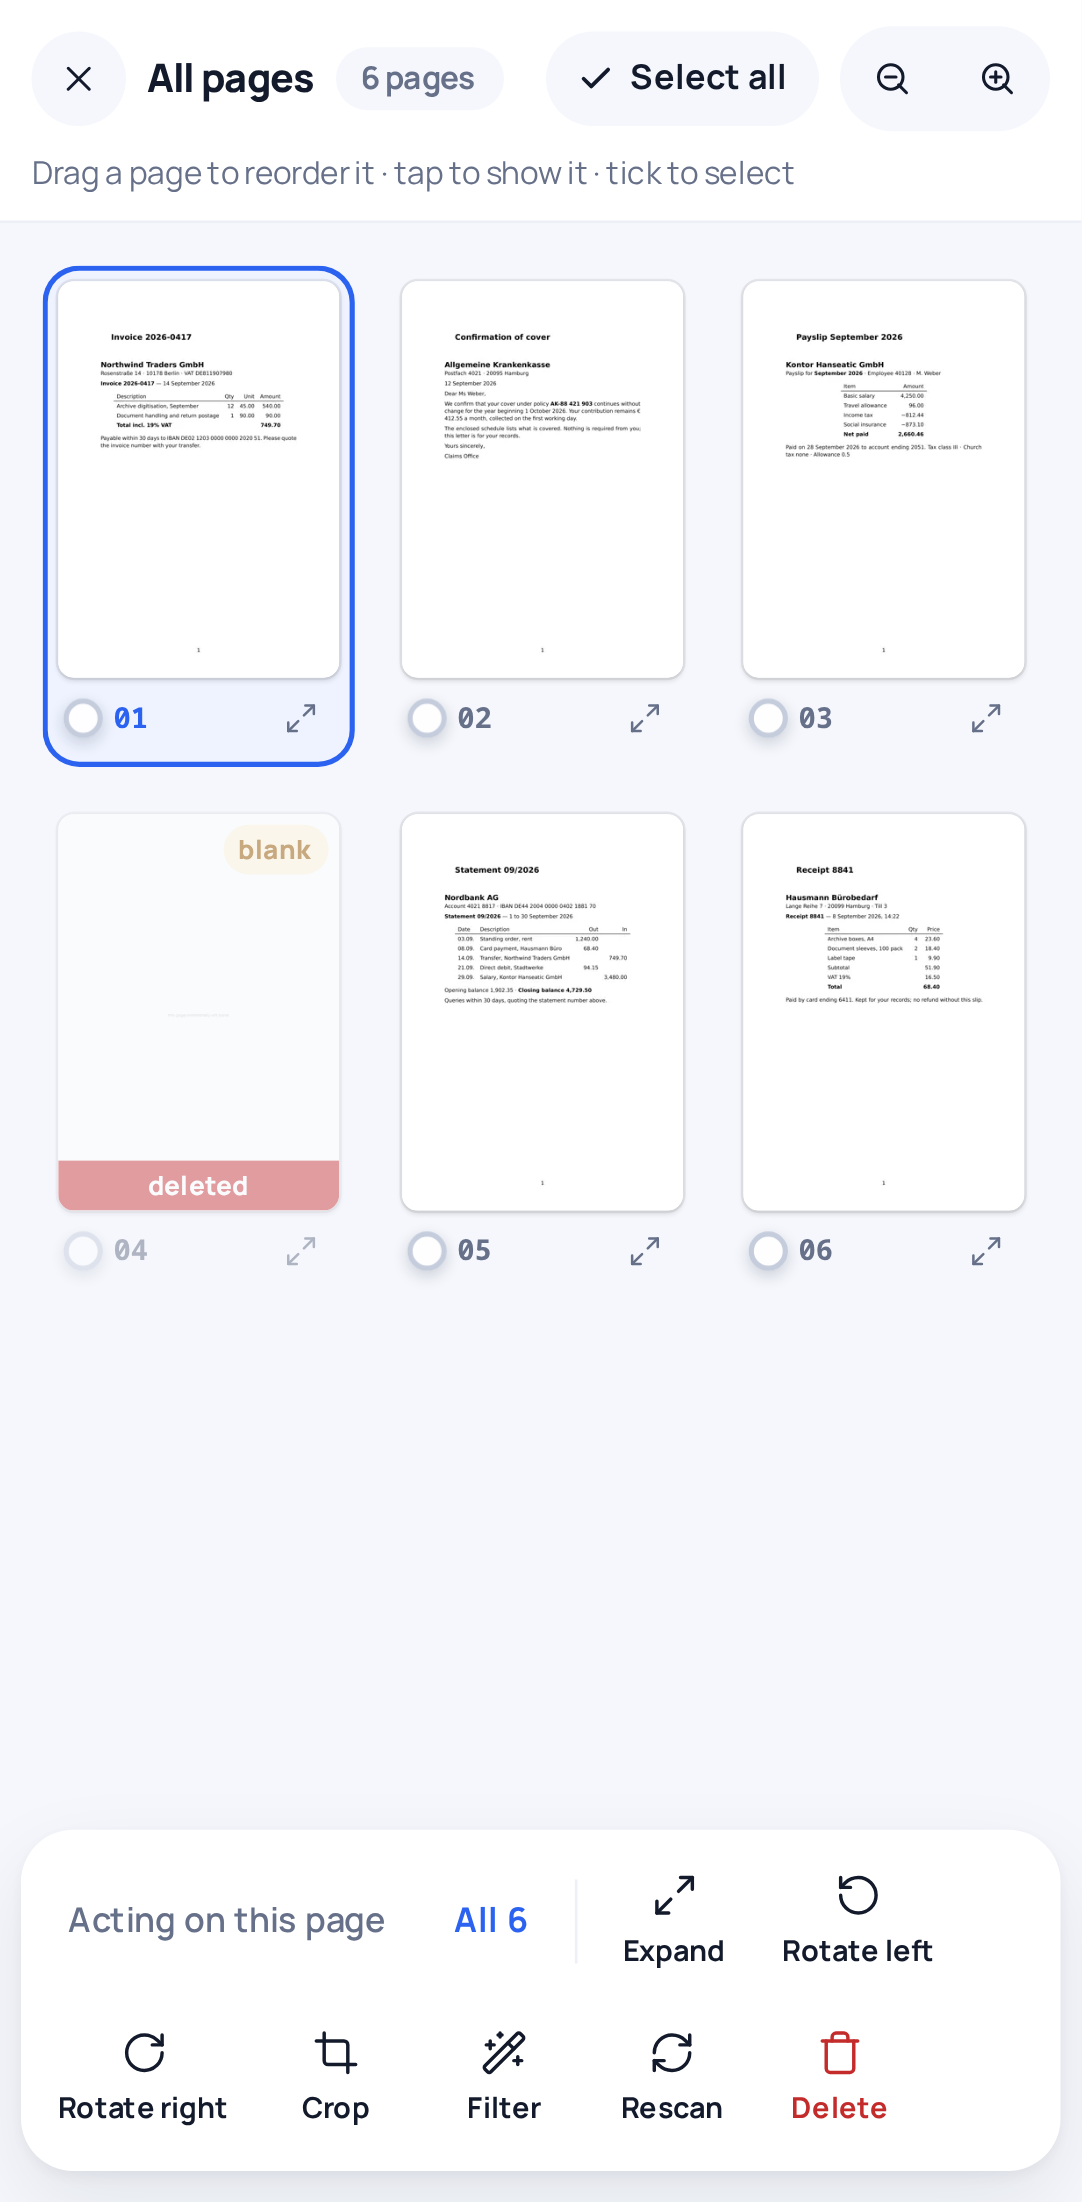
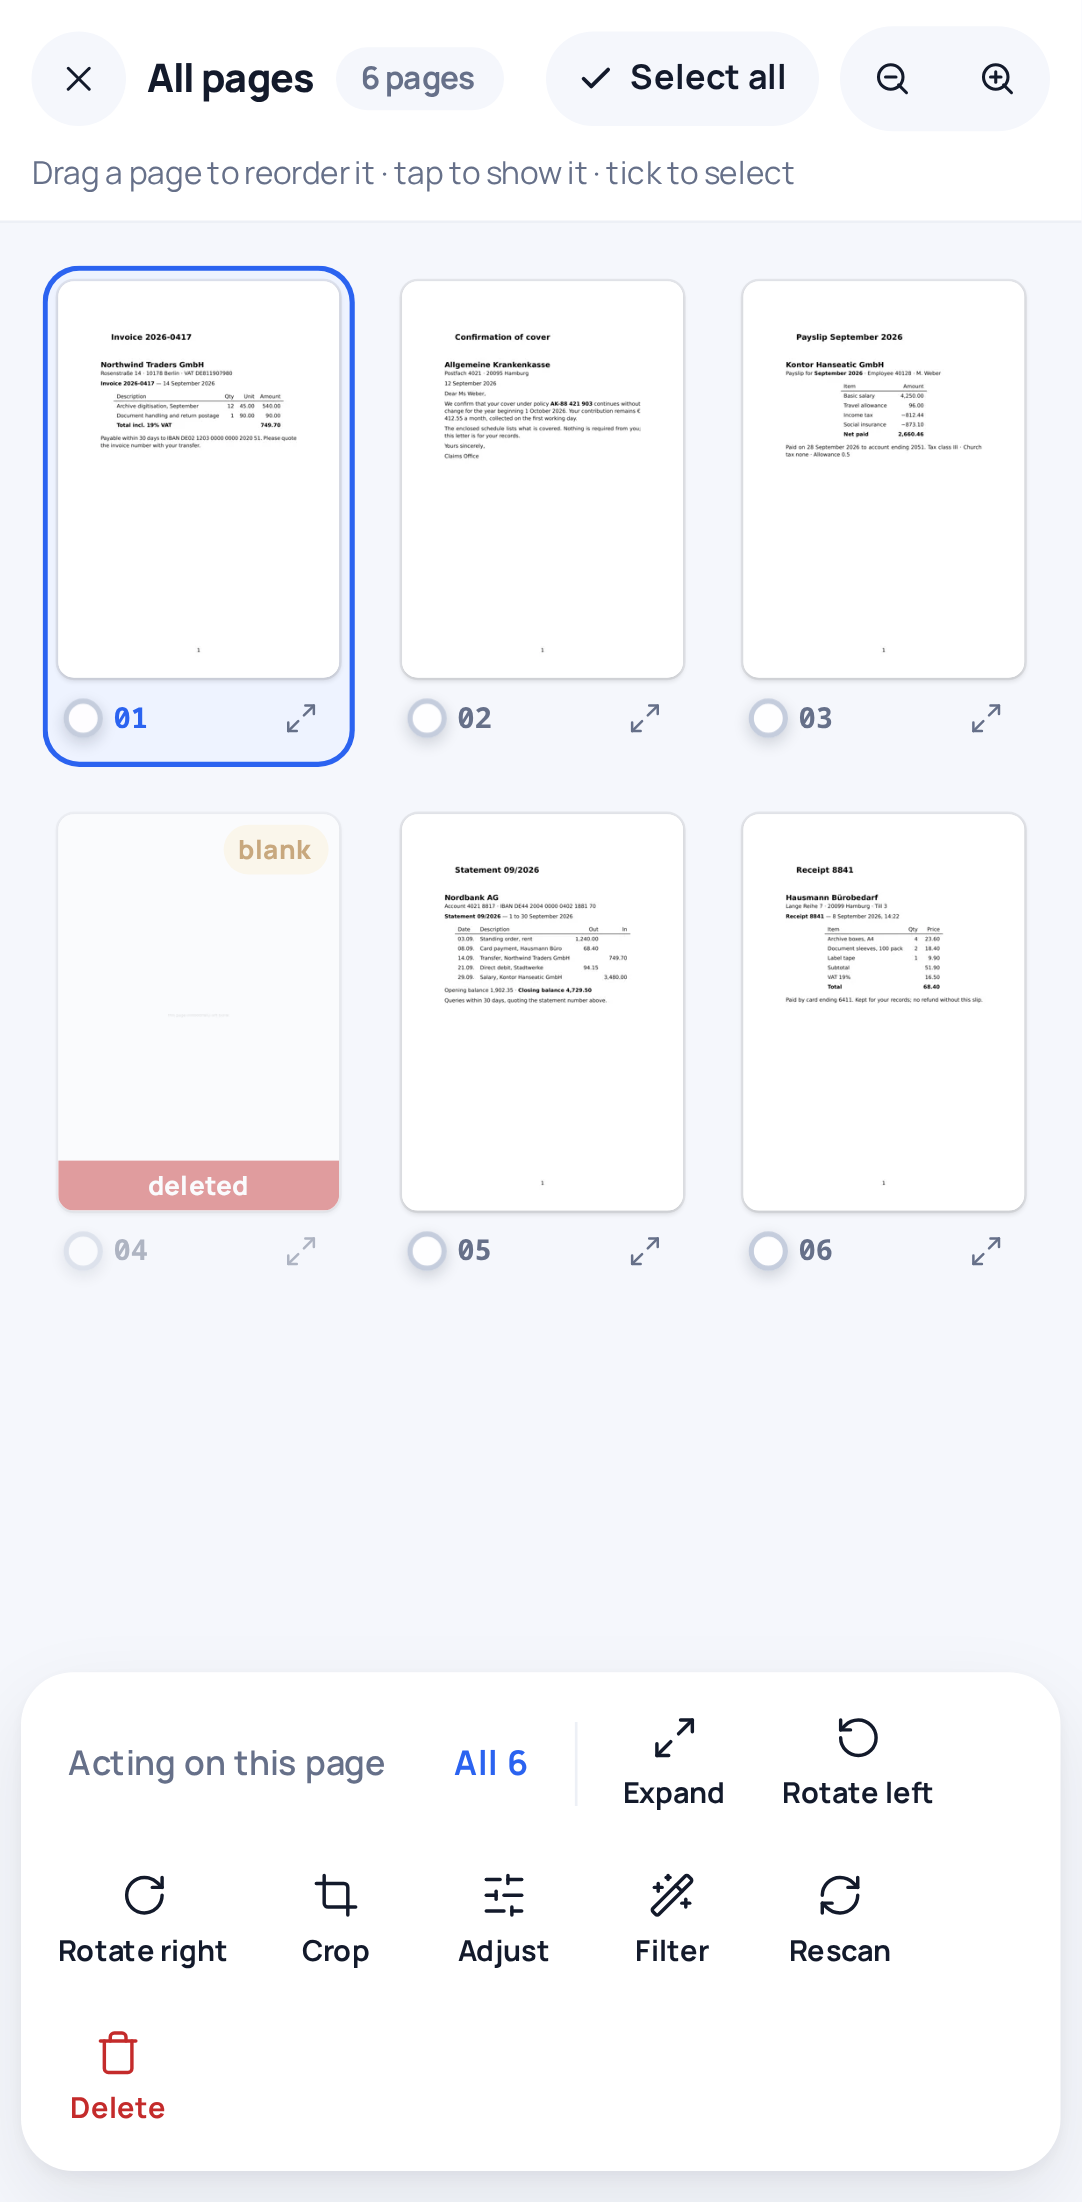
docs: describe adjust, clean-up, auto-crop and straighten in SPEC
Rewrite the domain model from the real records, which had drifted (it still
listed ColorOverride and SetColor). Add the render order, the AutoCrop hub
method, the review toolbar's and the preview's edit bars, and preloading.
Refresh the screenshots that show them.

diff --git a/SPEC.md b/SPEC.md
@@ -107,11 +107,17 @@ logging:
 
 ```
 Session  { Id, CreatedAt, State: Idle|Scanning|Review|Exporting|Done|Failed, Pages: Page[], OptionsUsed }
-Page     { Index, SourceFile, Rotation: 0|90|180|270, ColorOverride?, Deleted, IsBlank, Hash }
-PageEdit { Target: All | int[], Op: Rotate(deg) | Delete | Restore | SetColor(mode) | Reorder(int[]) }
+Page     { Index, SourceFile, Rotation: 0|90|180|270, Filter: Original|Enhance|Grayscale|Bw, Crop?,
+           StartsDocument, Deleted, IsBlank, SourceHash, Hash,
+           Adjust? { Brightness -100..100, Contrast -100..100, Sharpen 0..100 },
+           Cleanup: None | Despeckle | AutoLevels (flags), Skew: -15..15° in 0.1° }
+PageEdit { Targets?: int[] (null = all), Op: Rotate(deg) | Delete | Restore | SetFilter(filter) | Reorder(int[])
+           | SetCrop(box?) | SetSplit(bool) | SetAdjust(adjust?) | AddCleanup(flags) | RemoveCleanup(flags) | SetSkew(deg) }
 ```
 
-Edits are non-destructive and recorded in `session.json`; derived images are a pure function of `(source, edits)` cached on disk by hash.
+Edits are non-destructive and recorded in `session.json`; derived images are a pure function of `(source, edits)` cached on disk by hash. One `RenderSpec` feeds both the hash and the pixels, so nothing reaches the image without reaching the hash; edits added later are appended to the hash key only when set, so older pages keep their hashes.
+
+Render order (`PagePipeline`): crop (on the scan as it came) → quarter turns → skew (rotated, then cropped back to the page's own proportions, so no corners show) → auto-levels → Enhance filter → brightness, contrast → despeckle → sharpen → grayscale / B&W threshold.
 
 ## 7. Hub contract + HTTP — DECIDED
 
@@ -125,6 +131,7 @@ Task<SessionDto>   GetSession(string sessionId)
 Task<SessionDto[]> ListSessions()
 Task               DeleteSession(string sessionId)
 Task<SessionDto>   ApplyEdits(string sessionId, PageEdit[] edits)
+Task<int>          AutoCrop(string sessionId, int[]? targets)     // finds the scanner's dark frame, applies it as SetCrop; returns pages cropped
 Task<ExportResult> Export(string sessionId, ExportRequest req)   // builds the document(s); returns one-shot download URLs
 Task<ScannerStatusDto> GetScannerStatus()
 Task<ScanOptionsDto>   GetEffectiveOptions()
@@ -156,7 +163,7 @@ Routes: `/` (scanner picker, presets, big Scan button, recent sessions), `/sessi
 
 The UI comes first: it can change every scan option, and `yass.yaml` only supplies the defaults (`scanner.defaults`). Nothing in the config hides a control; `scanner.ui_editable` is accepted for old files and ignored. The scanner is chosen on `/`, not in `/settings`: the picker shows whenever the server lists at least one scanner, with `scanner.defaults.device` as the default, and presets belong to whichever scanner is chosen unless saved as available for all scanners.
 
-Review: page strip (a row above the page on a phone, a column beside it on desktop); tap a thumbnail = show that page on the stage, its checkbox = multi-select; drag = reorder; toolbar acts on selection or "all" when nothing selected: rotate ⟲ ⟳, delete/restore, color mode. Tap → full preview with swipe. Blank pages pre-marked deleted with badge. Sticky bottom bar: page count, **Save as…** (browser download, through the save dialog where there is one), Discard. Edits apply optimistically (CSS rotate) and reconcile on `PageUpdated`.
+Review: page strip (a row above the page on a phone, a column beside it on desktop); tap a thumbnail = show that page on the stage, its checkbox = multi-select; drag = reorder; toolbar acts on the selection, or the page on the stage when nothing is selected: rotate ⟲ ⟳, Adjust (brightness, contrast, sharpen with a live CSS preview), Crop menu (Crop…, Straighten… ±15° over a grid, Auto-crop borders), Filter menu (Original / Enhance / Grayscale / B&W, plus Despeckle and Auto-levels clean-ups), rescan, delete/restore. While a scan runs there is no edit bar. Tap → full preview with swipe, its own edit bar (Adjust, Crop, Straighten, Filter) for the page on screen, and previews preloaded nearest-first around the page in view. Blank pages pre-marked deleted with badge. Sticky bottom bar: page count, **Save as…** (browser download, through the save dialog where there is one), Discard. Edits apply optimistically (CSS rotate) and reconcile on `PageUpdated`.
 
 Targets: first paint < 1 s over LAN; JS ≤ 150 kB gzipped; no image bytes held in JS beyond the current preview; all actions keyboard-reachable; touch targets ≥ 44 px; works without service worker.
 
